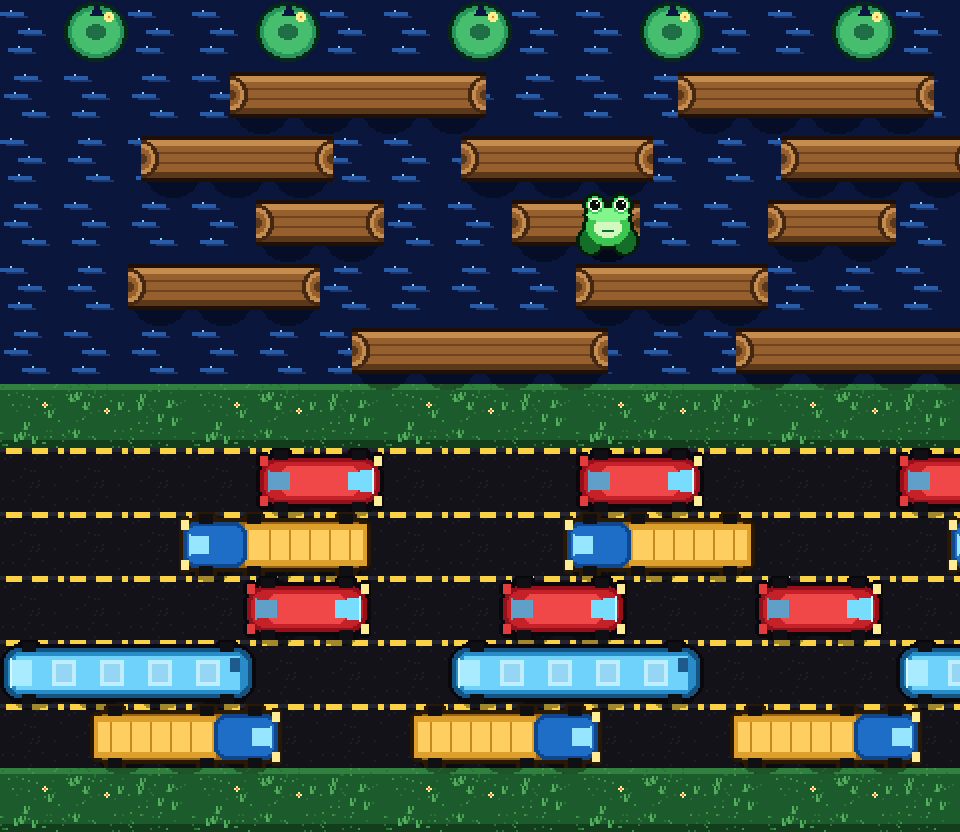
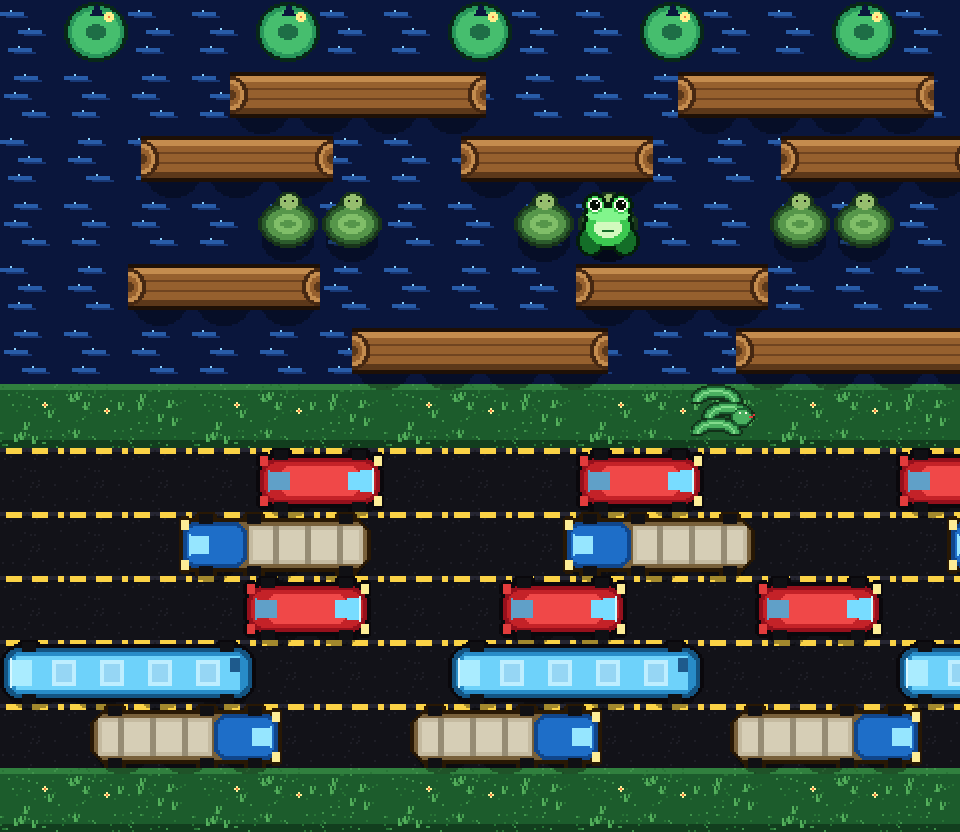
Add the turtles that dive, the snake on the median, and a plainer truck
The river had only logs. One water lane now carries turtles, and a lane can have a
`{up, down}` cycle: a turtle carries the frog while it is up and takes it under when it
goes down, so the frog has to read the lane, not just the gap.

The median has a snake that patrols it and turns at each end; standing on it costs a
life. That needed a mover that is not part of a lane, so the game holds one and the view
hands it to the client beside the lanes.

The truck's cargo was a stack of amber ribs, which read as crates. It is a plain box
with two straps and a blue cab now.

Tests: a submerged turtle drops the frog, a surfaced one carries it, and the snake bites.

diff --git a/book/make_crossing_art.py b/book/make_crossing_art.py
@@ -150,11 +150,11 @@ def draw_truck(length=3):
     amber, amber_light, amber_dark = (222, 160, 44, 255), (255, 206, 96, 255), (150, 98, 20, 255)
 
     cab = T
-    dd.rounded_rectangle([2, 5, w - 3, 27], radius=6, fill=amber_dark)
-    dd.rectangle([2, 6, w - cab - 2, 26], fill=amber)
-    dd.rectangle([4, 9, w - cab - 4, 23], fill=amber_light)
-    for x in range(10, w - cab - 6, 10):
-        dd.line([(x, 9), (x, 23)], fill=(198, 138, 34, 255))
+    dd.rounded_rectangle([2, 5, w - 3, 27], radius=6, fill=(120, 96, 58, 255))
+    dd.rectangle([4, 7, w - cab - 4, 25], fill=(196, 186, 160, 255))
+    dd.rectangle([6, 9, w - cab - 6, 23], fill=(214, 206, 182, 255))
+    for x in range(14, w - cab - 8, 16):
+        dd.rectangle([x, 7, x + 2, 25], fill=(150, 140, 116, 255))
 
     dd.rounded_rectangle([w - cab - 2, 5, w - 3, 27], radius=6, fill=(16, 70, 140, 255))
     dd.rounded_rectangle([w - cab, 7, w - 5, 25], radius=4, fill=(30, 110, 200, 255))
@@ -204,6 +204,63 @@ def vehicle_parts(kind, length):
     flipped = mirror(image)
     flipped_parts = [flipped.crop((i * T, 0, (i + 1) * T, T)) for i in range(length)]
     return parts, flipped_parts
+
+
+
+def turtle(frame, submerged=False):
+    """A turtle from above, or the shadow of one that has gone under."""
+    im = canvas()
+    dd = ImageDraw.Draw(im)
+    if submerged:
+        dd.ellipse([6, 9, T - 7, T - 8], fill=(16, 34, 70, 200))
+        dd.ellipse([9, 12, T - 10, T - 11], fill=(10, 24, 54, 220))
+        dd.arc([4, 7, T - 5, T - 6], 200, 340, fill=(60, 120, 190, 255), width=1)
+        return im
+
+    shell, light, dark = (86, 150, 74, 255), (128, 190, 104, 255), (44, 92, 44, 255)
+    skin = (150, 190, 110, 255)
+
+    # flippers, lifted on alternate frames
+    offset = 2 if frame == 0 else -1
+    for side in (-1, 1):
+        x0, x1 = sorted([8 + side * 9, 8 + side * 13])
+        y0, y1 = sorted([6 + offset * side, 12 + offset * side])
+        dd.ellipse([x0, y0, x1, y1], fill=skin)
+        y0, y1 = sorted([T - 12 - offset * side, T - 6 - offset * side])
+        dd.ellipse([x0, y0, x1, y1], fill=skin)
+
+    dd.ellipse([3, 6, T - 4, T - 7], fill=dark)
+    dd.ellipse([5, 8, T - 6, T - 9], fill=shell)
+    dd.ellipse([9, 11, T - 10, T - 12], fill=light)
+    dd.ellipse([12, 14, T - 13, T - 15], fill=shell)
+    # head
+    dd.ellipse([T // 2 - 4, 1, T // 2 + 4, 8], fill=skin)
+    dd.point((T // 2 - 2, 4), fill=(16, 24, 16, 255))
+    dd.point((T // 2 + 2, 4), fill=(16, 24, 16, 255))
+    return outline(im, (24, 52, 26, 255))
+
+
+def snake(frame=0):
+    """A snake from above: a looping body and a head with a tongue."""
+    im = canvas()
+    dd = ImageDraw.Draw(im)
+    green, light, dark = (74, 176, 96, 255), (130, 220, 140, 255), (26, 96, 48, 255)
+
+    # body: three loops
+    for index, y in enumerate((8, 16, 24)):
+        x0 = 4 + (index % 2) * 6
+        dd.arc([x0 - 4, y - 7, x0 + 20, y + 7], 180, 360, fill=dark, width=6)
+        dd.arc([x0 - 3, y - 6, x0 + 19, y + 6], 180, 360, fill=green, width=4)
+        dd.arc([x0 - 1, y - 5, x0 + 17, y + 5], 180, 360, fill=light, width=1)
+
+    # head
+    hx, hy = T - 7 + (1 if frame else 0), 16
+    dd.ellipse([hx - 5, hy - 4, hx + 5, hy + 4], fill=dark)
+    dd.ellipse([hx - 4, hy - 3, hx + 4, hy + 3], fill=green)
+    dd.point((hx - 1, hy - 2), fill=(250, 250, 230, 255))
+    dd.point((hx + 2, hy - 2), fill=(250, 250, 230, 255))
+    dd.line([(hx + 4, hy), (hx + 7, hy - 1)], fill=(226, 60, 60, 255))
+    return outline(im, (18, 48, 24, 255), 1)
 
 
 def frog(hop=False):
@@ -263,6 +320,11 @@ def main():
         "log_left": log("left"),
         "log_mid": log("mid"),
         "log_right": log("right"),
+        "turtle_0": turtle(0),
+        "turtle_1": turtle(1),
+        "turtle_under": turtle(0, submerged=True),
+        "snake_0": snake(0),
+        "snake_1": snake(1),
         "frog": frog(False),
         "frog_hop": frog(True),
         "bank": pad(),
@@ -289,6 +351,11 @@ def main():
         "log_mid": ("▬▬", "#966030"),
         "log_right": ("▬▬", "#966030"),
 
+        "turtle_0": ("◍ ", "#6ab04a"),
+        "turtle_1": ("◍ ", "#6ab04a"),
+        "turtle_under": ("◌ ", "#16305a"),
+        "snake_0": ("§ ", "#4ab060"),
+        "snake_1": ("§ ", "#4ab060"),
         "frog": ("♞ ", "#3cc850"),
         "frog_hop": ("♞ ", "#3cc850"),
         "bank": ("○ ", "#28905a"),
